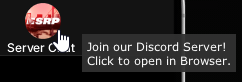
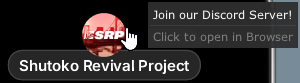
prepare readme for 1.4 release

diff --git a/README.md b/README.md
@@ -12,13 +12,14 @@ If you're looking for a more "oldschool" feel, try my [Mobilephone](https://gith
 - **Time Display** – Shows real-life time in 24h/12h format (left-click to send to chat)
 - **Now Playing** – Displays currently playing song information (left-click to send to chat)
 - **Ping Display** – Shows your ping as connection bars, can be hovered to show the exact number (left-click to send to chat)
-- **Custom Community Pictures** – Support for community branding with clickable links.
+- **Custom Server Community Integration** – Support for community branding with clickable links when joining servers.
   - Community owners can contact me with the following information to be added:
     ```ini
     Server IPs:     ;List of IP addresses of your servers. IP's should not change all the time.
-    Image:          ;Image that you want to be displayed.
-    URL:            ;URL to direct to when clicked.
-    Tooltip Text:   ;Text that you want to be displayed in the tooltip.
+    Contact Name:   ;Name that will be shown below the contact picture.
+    Contact Image:          ;Image that you want to be displayed as contact picture.
+    URL:            ;URL to direct to when contact picture is clicked.
+    Tooltip Text:   ;Text that you want to be displayed in the contact picture tooltip.
     ```
     ![](https://raw.githubusercontent.com/C1XTZ/ac-smartphone/refs/heads/main/.github/img/communityexample.png)
 - **In-Game Chat** – Hover over usernames to see information (right-click to open user options)
@@ -30,7 +31,11 @@ If you're looking for a more "oldschool" feel, try my [Mobilephone](https://gith
 - **Customizable Settings** – Extensive options to personalize your experience by opening the settings via the cogwheel
 
 <p align="center">
-<img width="130" src="https://raw.githubusercontent.com/C1XTZ/ac-smartphone/master/.github/img/updater.png"> <img width="130" src="https://raw.githubusercontent.com/C1XTZ/ac-smartphone/master/.github/img/appsettings.png"> <img width="130" src="https://raw.githubusercontent.com/C1XTZ/ac-smartphone/master/.github/img/preview.gif"> <img width="130" src="https://raw.githubusercontent.com/C1XTZ/ac-smartphone/master/.github/img/chatsettings.png"> <img width="130" src="https://raw.githubusercontent.com/C1XTZ/ac-smartphone/master/.github/img/audiosettings.png"> <img width="130" src="https://raw.githubusercontent.com/C1XTZ/ac-smartphone/master/.github/img/colorsettings.png">
+<img width="270" src="https://raw.githubusercontent.com/C1XTZ/ac-smartphone/master/.github/img/serverchat.png"> <img width="270" src="https://raw.githubusercontent.com/C1XTZ/ac-smartphone/master/.github/img/settings.webp"> <img width="270" src="https://raw.githubusercontent.com/C1XTZ/ac-smartphone/master/.github/img/emojipicker.png">
+</p>
+
+<p align="center">
+<img width="320" src="https://raw.githubusercontent.com/C1XTZ/ac-smartphone/master/.github/img/notification.png"> <img width="320" src="https://raw.githubusercontent.com/C1XTZ/ac-smartphone/master/.github/img/minimal.png">
 </p>
 
 If you have any questions or suggestions, feel free to open an issue or pull request.  
